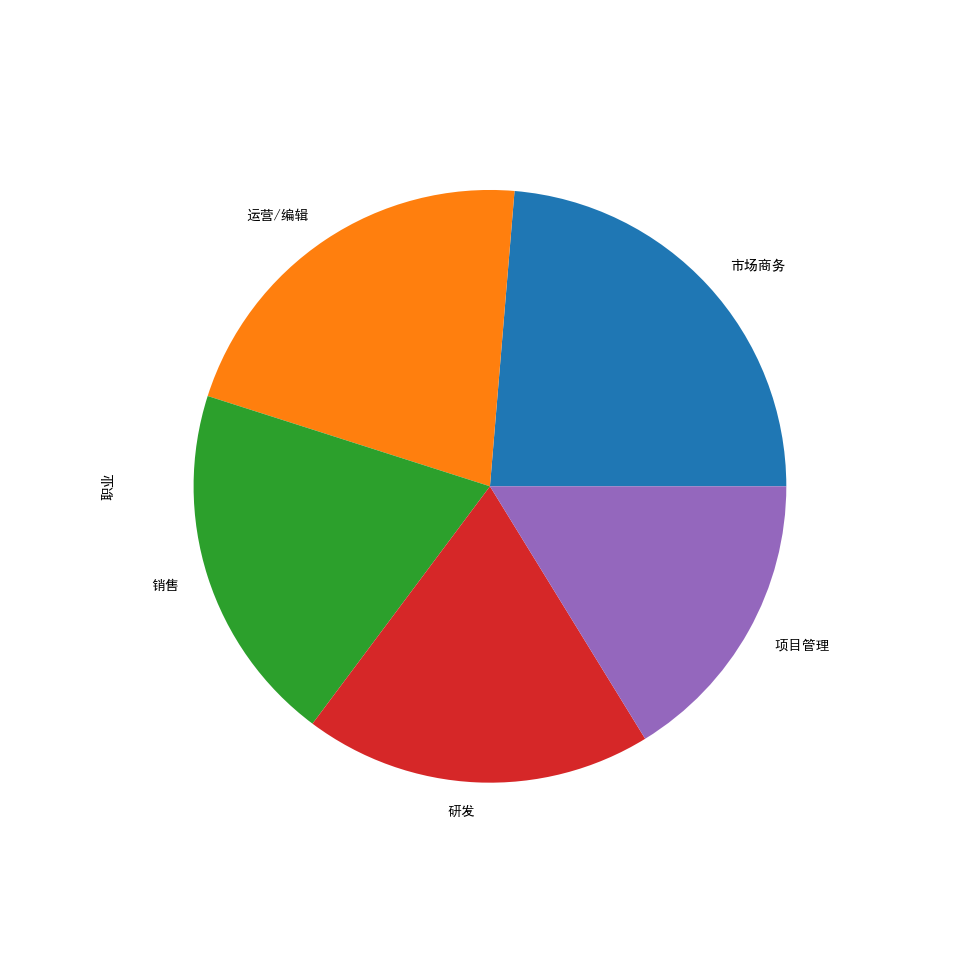
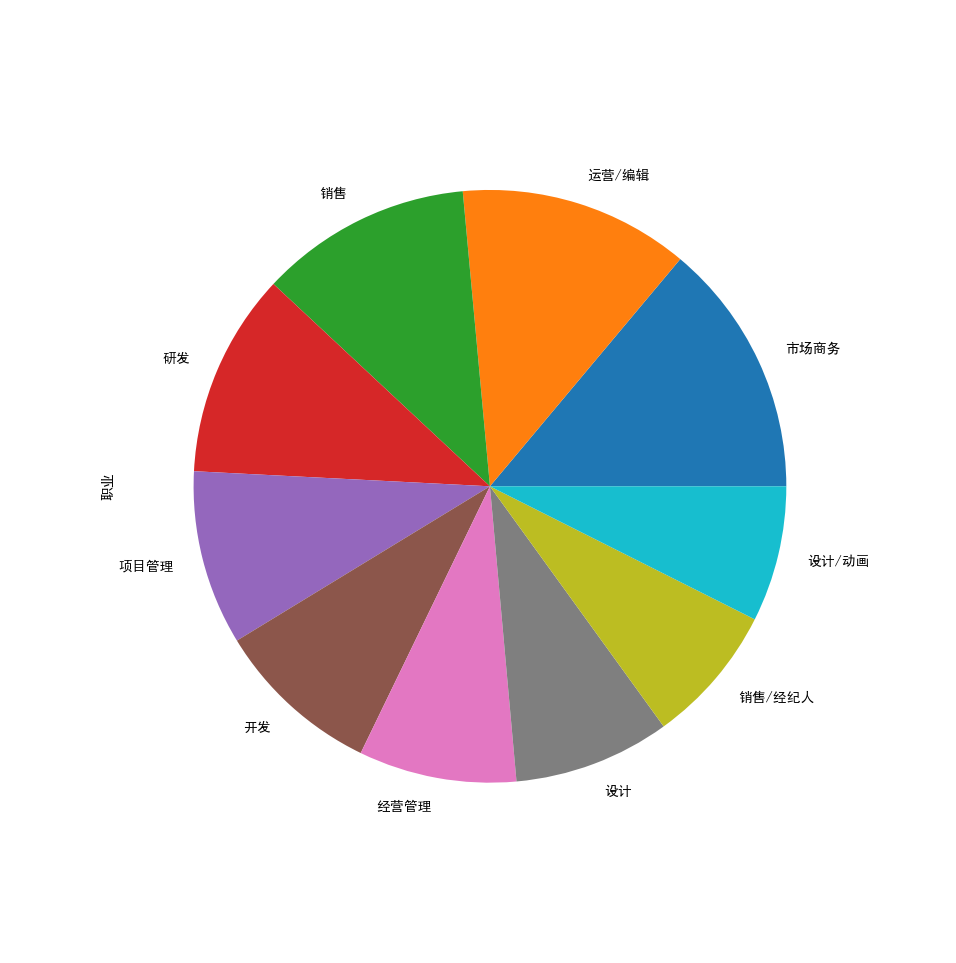
小修改

diff --git a/parse.py b/parse.py
@@ -4,7 +4,7 @@
 # Description   :
 # Author        :
 # Creation Date : 2019-03-26
-# Last Modified : 2019年03月26日 星期二 15时10分16秒
+# Last Modified : 2019年03月26日 星期二 17时04分03秒
 # Created By    : lsl
 import matplotlib.pyplot as plt
 import pandas as pd
@@ -23,7 +23,7 @@ def main():
     plt.show()
     df[(df["职业"] != "…") & (df["职业"] != "...") & (df["职业"] != "未知")][
         "职业"
-    ].value_counts().head().plot.pie()
+    ].value_counts().head(10).plot.pie()
     plt.show()
 
 
